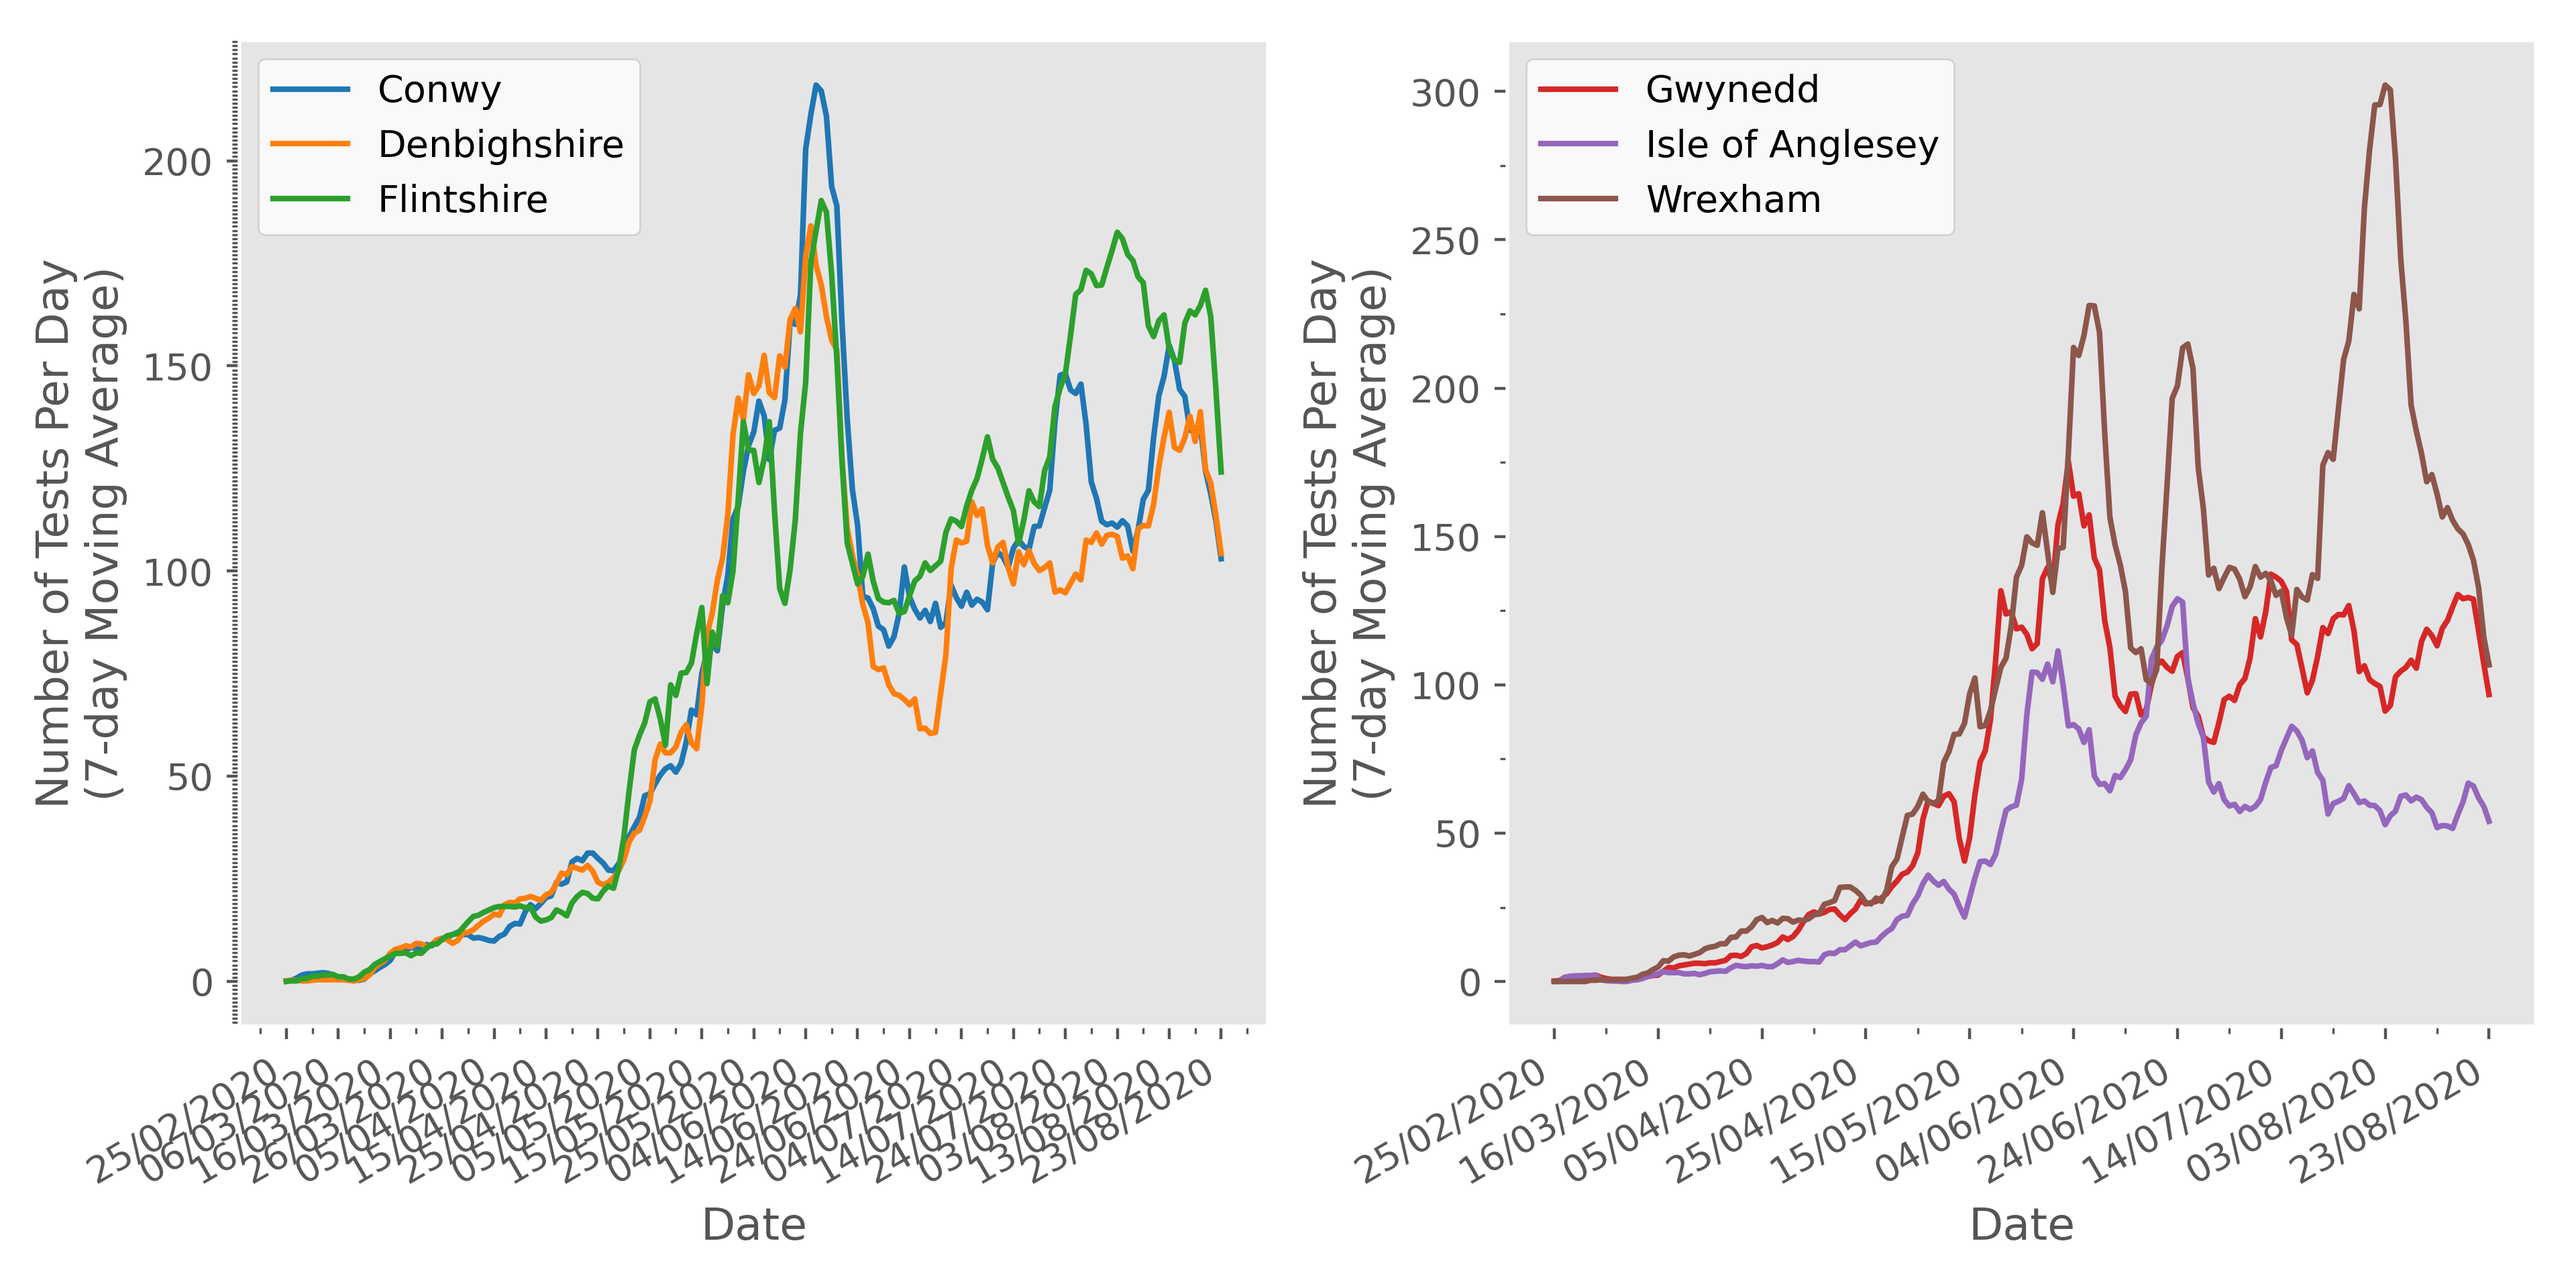
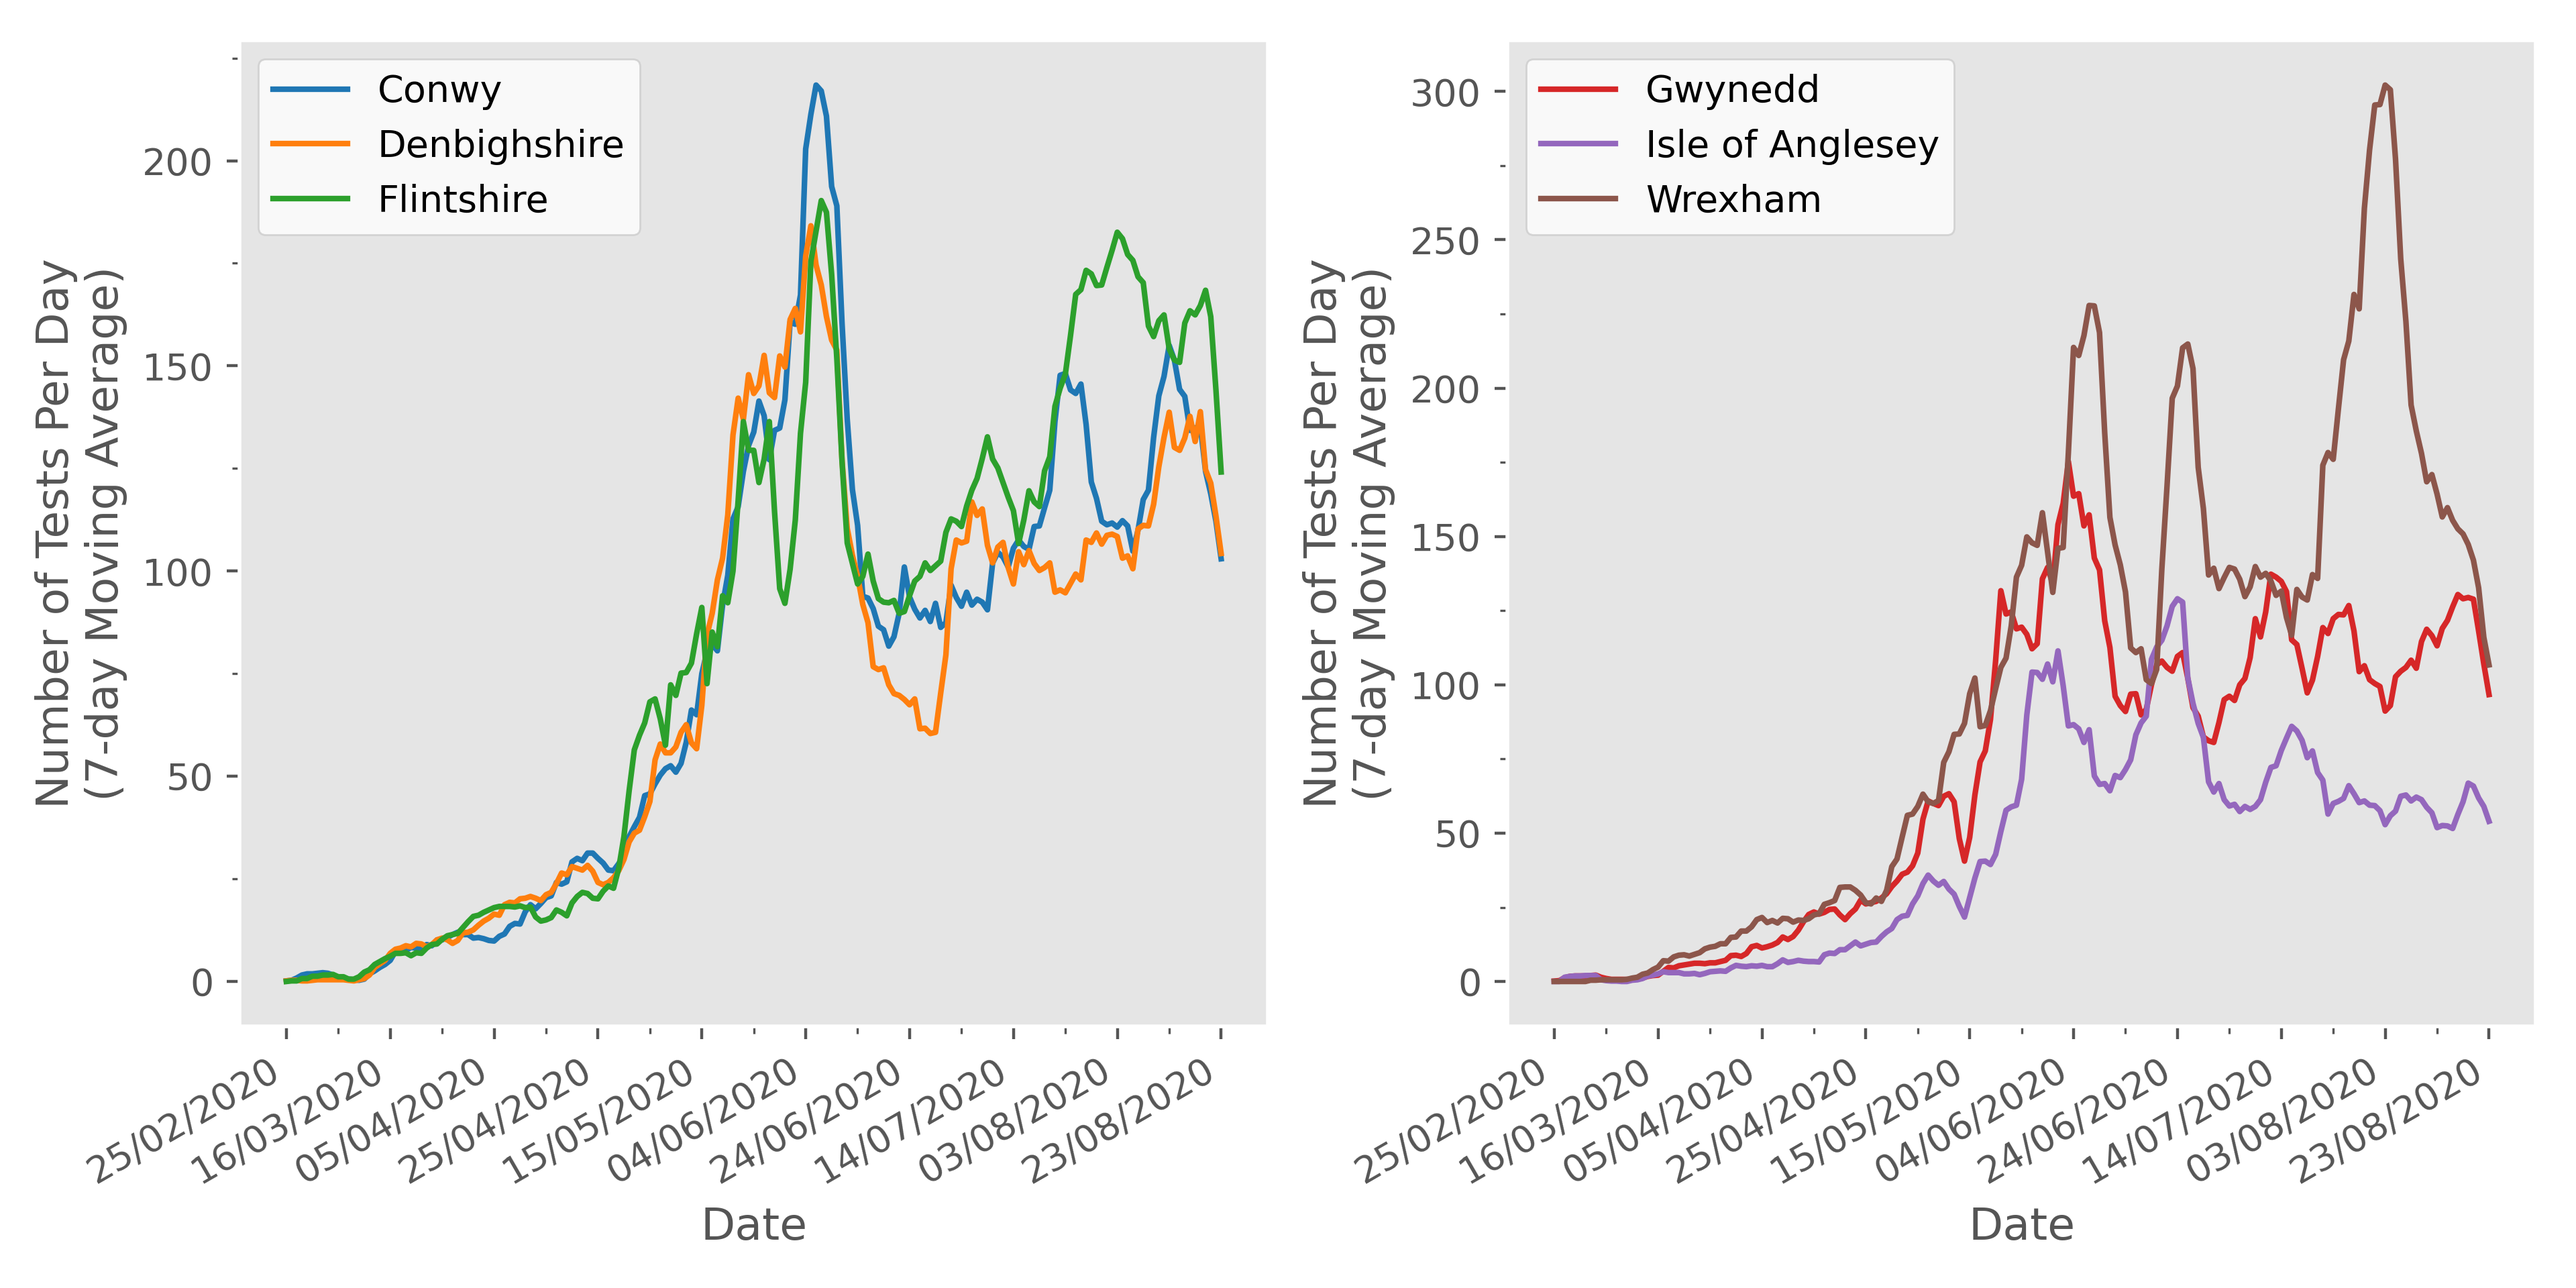
automatically added covid graphs

Changed region(s): [[0.0625, 0.8125, 0.4375, 0.9062]]

diff --git a/covid_n_wales/covid_n_wales_separated_raw_tests.py b/covid_n_wales/covid_n_wales_separated_raw_tests.py
@@ -69,9 +69,9 @@ ax.tick_params(which="major", direction='out', left=True, right=False)
 ax.tick_params(which="minor", direction='out', left=True, right=False)
 ax.tick_params(which="major", direction='out', top=False, bottom=True)
 ax.tick_params(which="minor", direction='out', top=False, bottom=True)
-ax.xaxis.set_minor_locator(MultipleLocator(5))
-ax.xaxis.set_major_locator(MultipleLocator(10))
-ax.yaxis.set_minor_locator(MultipleLocator(1))
+ax.xaxis.set_minor_locator(MultipleLocator(10))
+ax.xaxis.set_major_locator(MultipleLocator(20))
+ax.yaxis.set_minor_locator(MultipleLocator(25))
 
 plt.gcf().autofmt_xdate()
 

diff --git a/covid_n_wales/covid_n_wales_separated.py b/covid_n_wales/covid_n_wales_separated.py
@@ -63,8 +63,8 @@ ax.tick_params(which="major", direction='out', left=True, right=False)
 ax.tick_params(which="minor", direction='out', left=True, right=False)
 ax.tick_params(which="major", direction='out', top=False, bottom=True)
 ax.tick_params(which="minor", direction='out', top=False, bottom=True)
-ax.xaxis.set_minor_locator(MultipleLocator(5))
-ax.xaxis.set_major_locator(MultipleLocator(10))
+ax.xaxis.set_minor_locator(MultipleLocator(10))
+ax.xaxis.set_major_locator(MultipleLocator(20))
 ax.yaxis.set_minor_locator(MultipleLocator(1))
 
 plt.gcf().autofmt_xdate()

diff --git a/covid_n_wales/covid_n_wales_separated_tests.py b/covid_n_wales/covid_n_wales_separated_tests.py
@@ -80,8 +80,8 @@ ax.tick_params(which="major", direction='out', left=True, right=False)
 ax.tick_params(which="minor", direction='out', left=True, right=False)
 ax.tick_params(which="major", direction='out', top=False, bottom=True)
 ax.tick_params(which="minor", direction='out', top=False, bottom=True)
-ax.xaxis.set_minor_locator(MultipleLocator(5))
-ax.xaxis.set_major_locator(MultipleLocator(10))
+ax.xaxis.set_minor_locator(MultipleLocator(10))
+ax.xaxis.set_major_locator(MultipleLocator(20))
 ax.yaxis.set_minor_locator(MultipleLocator(1))
 
 plt.gcf().autofmt_xdate()
